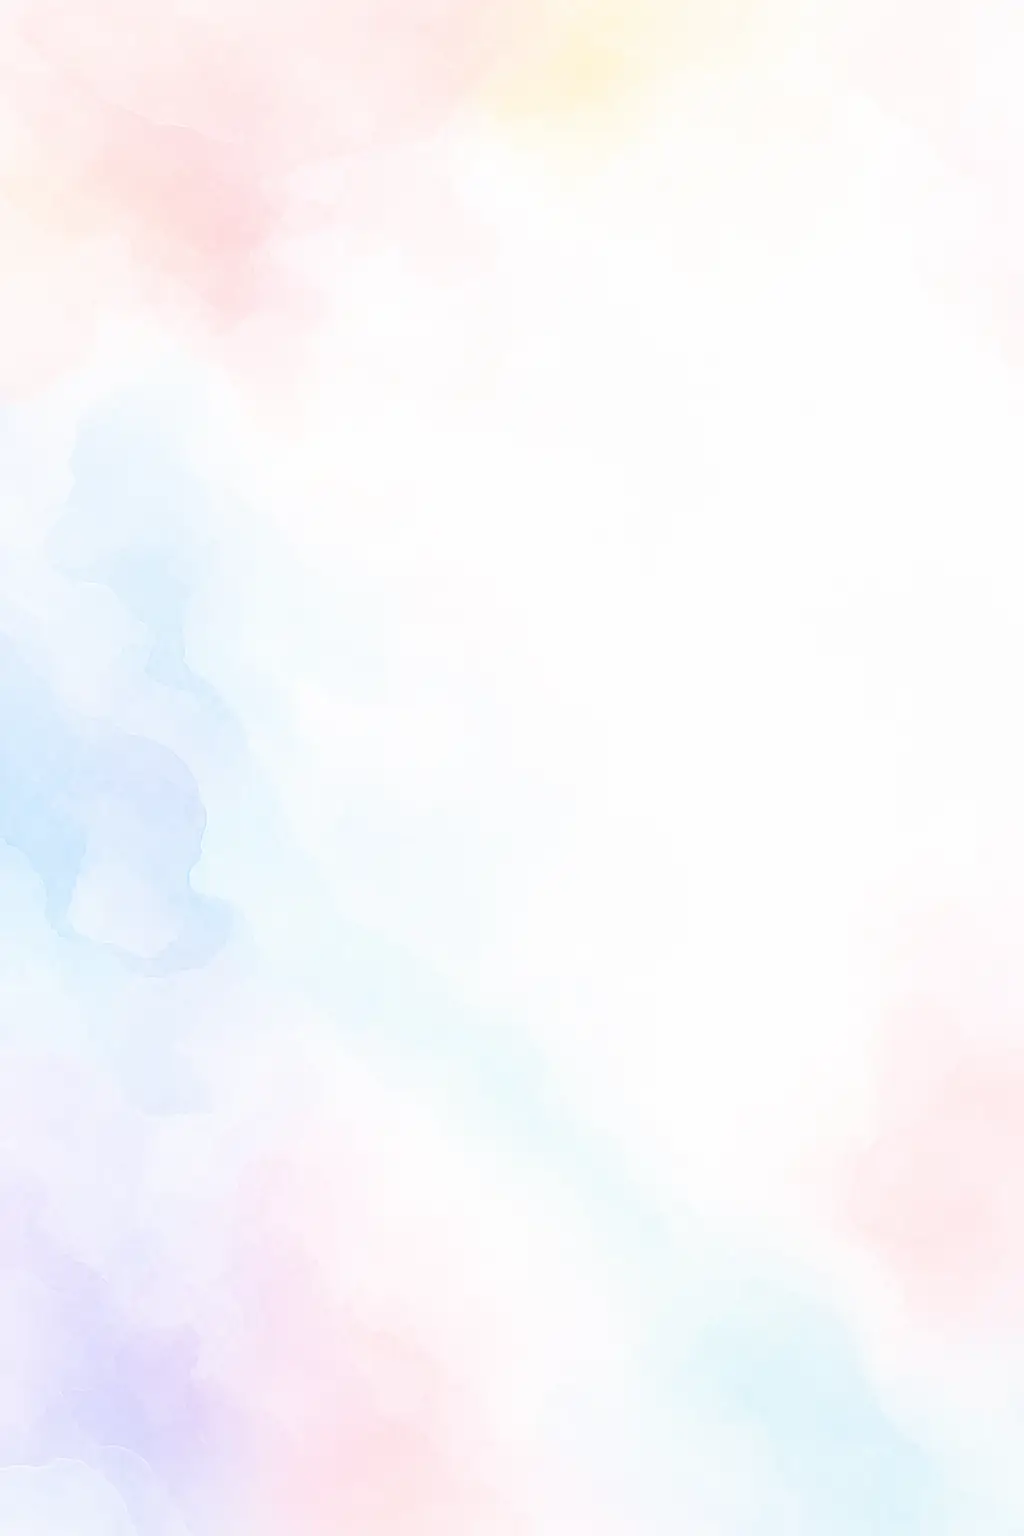
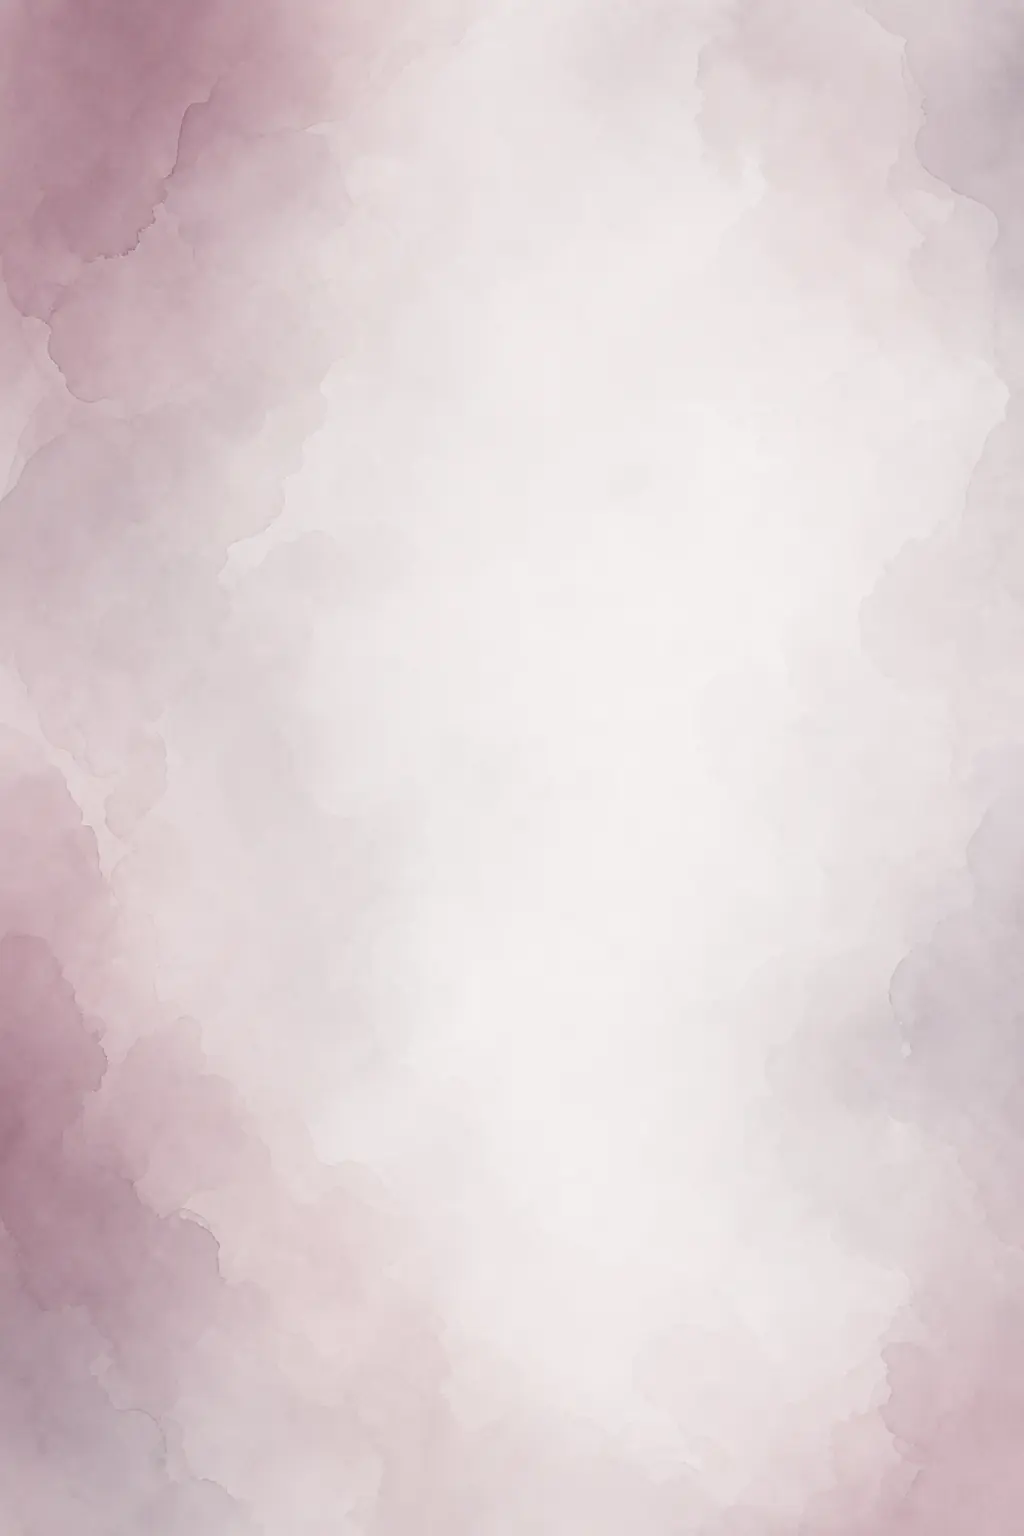
Apply Ashen Rose glass theme

diff --git a/site-background.css b/site-background.css
@@ -1,11 +1,26 @@
+:root {
+  --ashen-rose: #9e8993;
+  --iced-petal: #ad9fa6;
+  --morning-fog: #c0b7bb;
+  --pale-heather: #d5d0d3;
+  --first-light: #ebe8e9;
+  --theme-ink: #40363b;
+  --theme-muted-ink: #675b61;
+  --glass-light: rgba(235, 232, 233, 0.72);
+  --glass-mid: rgba(213, 208, 211, 0.58);
+  --glass-edge: rgba(255, 255, 255, 0.78);
+  --glass-shadow: rgba(92, 72, 82, 0.18);
+}
+
 html {
   min-height: 100%;
-  background-color: #fff;
+  background-color: var(--first-light);
 }
 
 body {
   min-height: 100vh;
-  background-color: #fff !important;
+  color: var(--theme-ink);
+  background-color: var(--first-light) !important;
   background-image: url("site-background.webp") !important;
   background-position: center center !important;
   background-repeat: no-repeat !important;
@@ -13,8 +28,152 @@ body {
   background-attachment: fixed !important;
 }
 
+/* Shared liquid-glass surfaces */
+.note-card,
+.card,
+.acc-item,
+.med-section,
+.vaccine-section,
+.calculator,
+.result,
+.modal-content,
+.table-mini,
+.private-note-editor,
+.editable-checklist {
+  color: var(--theme-ink) !important;
+  background: linear-gradient(135deg, var(--glass-light), var(--glass-mid)) !important;
+  border: 1px solid var(--glass-edge) !important;
+  box-shadow:
+    0 12px 30px var(--glass-shadow),
+    inset 0 1px 0 rgba(255, 255, 255, 0.86),
+    inset 0 -1px 0 rgba(158, 137, 147, 0.14) !important;
+  backdrop-filter: blur(16px) saturate(118%);
+  -webkit-backdrop-filter: blur(16px) saturate(118%);
+}
+
+/* Headers and navigation glass */
+.header,
+.header-bg,
+.sidebar,
+.side-menu,
+.menu-panel,
+nav {
+  color: var(--theme-ink);
+  background: linear-gradient(
+    135deg,
+    rgba(192, 183, 187, 0.68),
+    rgba(235, 232, 233, 0.54)
+  ) !important;
+  border-color: rgba(255, 255, 255, 0.66) !important;
+  box-shadow: 0 10px 26px rgba(92, 72, 82, 0.14) !important;
+  backdrop-filter: blur(18px) saturate(120%);
+  -webkit-backdrop-filter: blur(18px) saturate(120%);
+}
+
+/* Tabs, pills and small controls */
+.menu-link,
+.tab,
+.tab-btn,
+[role="tab"],
+.badge,
+.qc-pill,
+.glass-btn,
+.format-btn,
+.mini-btn,
+.miniBtn,
+.header-btn,
+.icon-btn,
+.home-btn,
+.add-btn,
+.custom-file-btn {
+  color: var(--theme-ink) !important;
+  background: rgba(213, 208, 211, 0.68) !important;
+  border-color: rgba(255, 255, 255, 0.72) !important;
+  box-shadow:
+    0 5px 14px rgba(92, 72, 82, 0.12),
+    inset 0 1px 0 rgba(255, 255, 255, 0.72) !important;
+  backdrop-filter: blur(10px);
+  -webkit-backdrop-filter: blur(10px);
+}
+
+.menu-link:hover,
+.tab:hover,
+.tab-btn:hover,
+[role="tab"]:hover,
+.glass-btn:hover,
+.format-btn:hover,
+.mini-btn:hover,
+.miniBtn:hover,
+.header-btn:hover,
+.icon-btn:hover,
+.home-btn:hover,
+.add-btn:hover,
+.custom-file-btn:hover,
+.menu-link.active,
+.tab.active,
+.tab-btn.active,
+.glass-btn.active,
+.menu-link.is-active,
+.tab.is-active,
+.tab-btn.is-active,
+.glass-btn.is-active,
+[aria-selected="true"],
+[aria-pressed="true"] {
+  color: #fff !important;
+  background: rgba(158, 137, 147, 0.9) !important;
+  border-color: rgba(235, 232, 233, 0.78) !important;
+}
+
+/* Readable nested fields inside glass cards */
+input:not([type="checkbox"]):not([type="radio"]):not([type="button"]):not([type="submit"]):not([type="file"]):not([type="color"]):not([type="range"]),
+textarea,
+select,
+[contenteditable="true"],
+.field,
+.section-fields,
+.acc-inner,
+.med-section-content {
+  color: var(--theme-ink) !important;
+  background-color: rgba(235, 232, 233, 0.82) !important;
+  border-color: rgba(158, 137, 147, 0.34) !important;
+  box-shadow: inset 0 1px 2px rgba(92, 72, 82, 0.08) !important;
+}
+
+input::placeholder,
+textarea::placeholder {
+  color: var(--theme-muted-ink) !important;
+  opacity: 0.78;
+}
+
+a {
+  color: #66535d;
+}
+
+mark,
+.ml-highlight,
+.search-hit {
+  color: var(--theme-ink) !important;
+  background: rgba(173, 159, 166, 0.48) !important;
+}
+
 @media (max-width: 900px), (prefers-reduced-motion: reduce) {
   body {
     background-attachment: scroll !important;
+  }
+
+  .note-card,
+  .card,
+  .acc-item,
+  .med-section,
+  .vaccine-section,
+  .calculator,
+  .result,
+  .modal-content,
+  .table-mini,
+  .private-note-editor,
+  .editable-checklist {
+    background: rgba(235, 232, 233, 0.84) !important;
+    backdrop-filter: blur(8px);
+    -webkit-backdrop-filter: blur(8px);
   }
 }